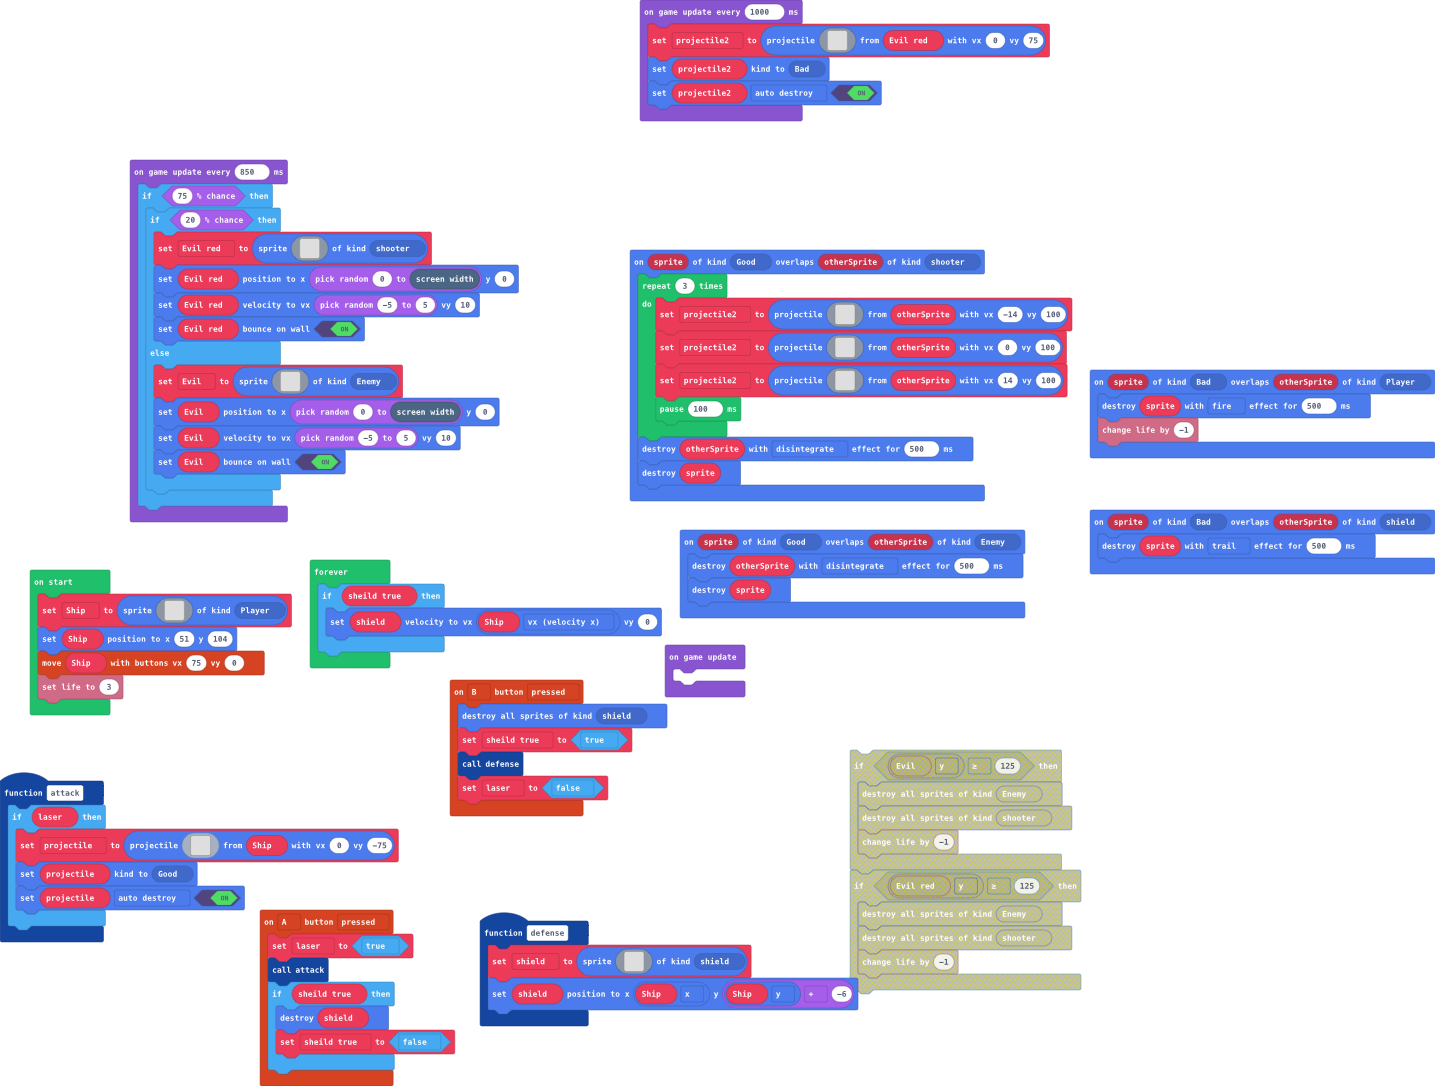
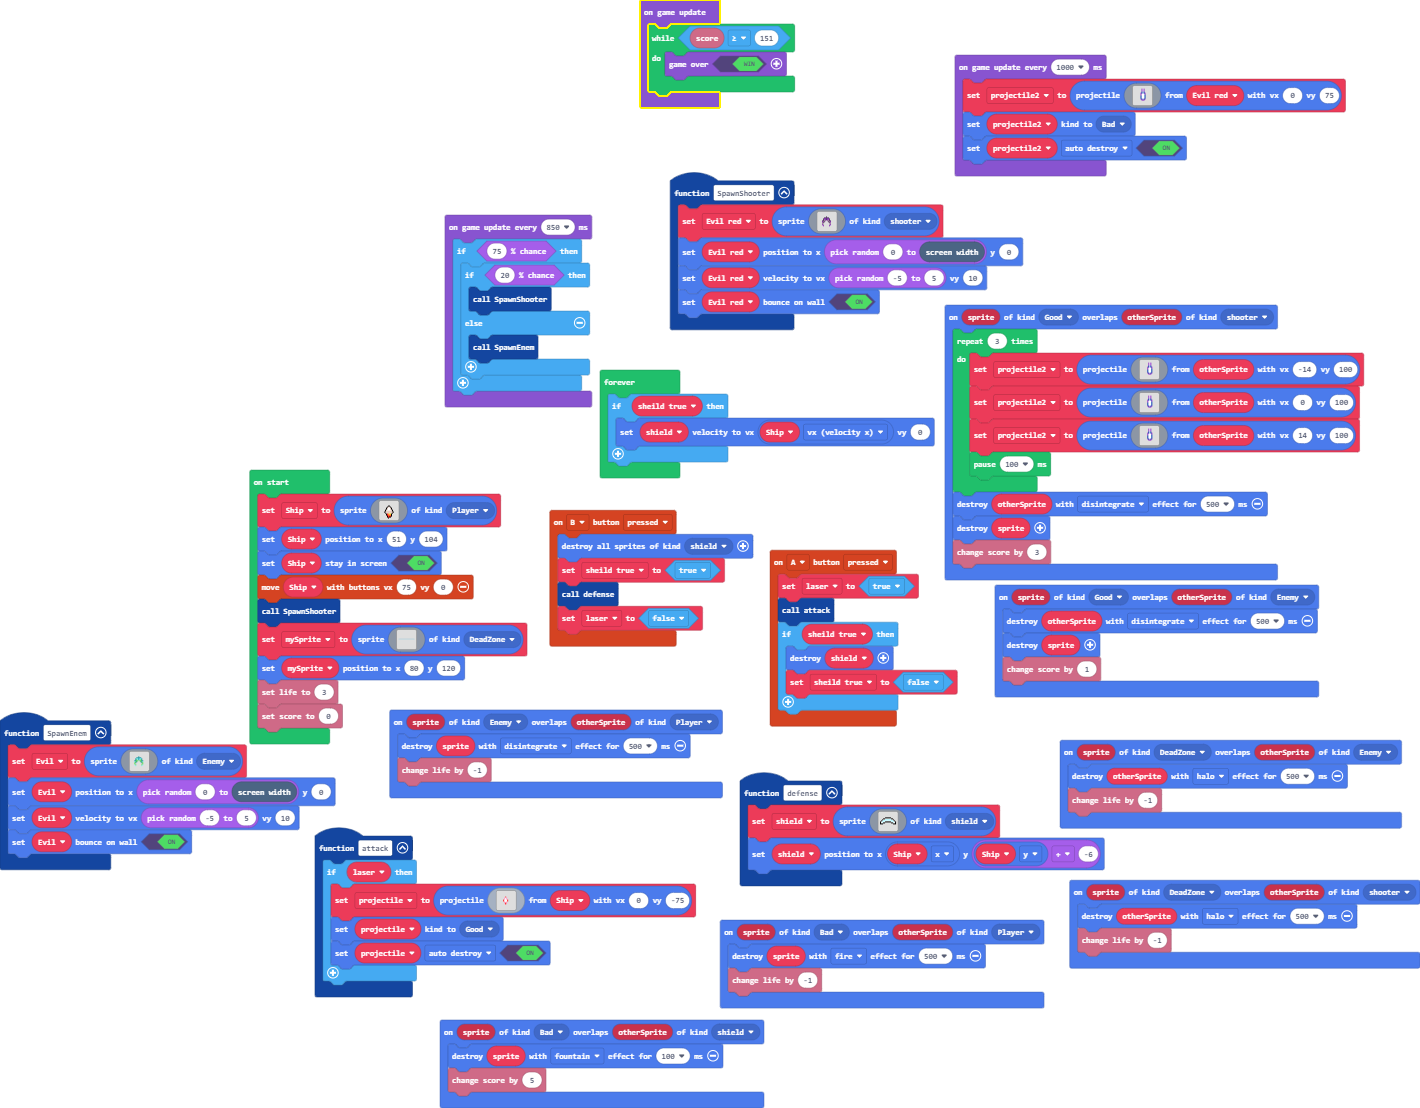
Update main.blocks, main.ts

diff --git a/main.ts b/main.ts
@@ -3,6 +3,7 @@ namespace SpriteKind {
     export const shooter = SpriteKind.create()
     export const Good = SpriteKind.create()
     export const Bad = SpriteKind.create()
+    export const DeadZone = SpriteKind.create()
 }
 sprites.onOverlap(SpriteKind.Good, SpriteKind.shooter, function (sprite, otherSprite) {
     for (let index = 0; index < 3; index++) {
@@ -64,12 +65,17 @@ sprites.onOverlap(SpriteKind.Good, SpriteKind.shooter, function (sprite, otherSp
     }
     otherSprite.destroy(effects.disintegrate, 500)
     sprite.destroy()
+    info.changeScoreBy(3)
 })
 controller.B.onEvent(ControllerButtonEvent.Pressed, function () {
     sprites.destroyAllSpritesOfKind(SpriteKind.shield)
     sheild_true = true
     defense()
     laser = false
+})
+sprites.onOverlap(SpriteKind.DeadZone, SpriteKind.Enemy, function (sprite, otherSprite) {
+    otherSprite.destroy(effects.halo, 500)
+    info.changeLifeBy(-1)
 })
 controller.A.onEvent(ControllerButtonEvent.Pressed, function () {
     laser = true
@@ -79,6 +85,33 @@ controller.A.onEvent(ControllerButtonEvent.Pressed, function () {
         sheild_true = false
     }
 })
+sprites.onOverlap(SpriteKind.DeadZone, SpriteKind.shooter, function (sprite, otherSprite) {
+    otherSprite.destroy(effects.halo, 500)
+    info.changeLifeBy(-1)
+})
+function SpawnEnem () {
+    Evil = sprites.create(img`
+        . . . . . . . . . . . . . . . . 
+        . . . . . . . . . . . . . . . . 
+        . . . . . . . . . . . . . . . . 
+        . . . . . . . 6 . . . . . . . . 
+        . . . . . 6 6 6 6 6 . . . . . . 
+        . . . . 6 9 9 6 9 9 6 . . . . . 
+        . . . . 6 7 9 6 9 7 6 . . . . . 
+        . . . 6 6 7 7 . 7 7 6 6 . . . . 
+        . . . 9 7 6 . . . 6 7 9 . . . . 
+        . . . 7 6 . . . . . 6 7 . . . . 
+        . . . 7 . . . . . . . 7 . . . . 
+        . . . 9 7 . . . . . 7 9 . . . . 
+        . . . . 9 . . . . . 9 . . . . . 
+        . . . . . . . . . . . . . . . . 
+        . . . . . . . . . . . . . . . . 
+        . . . . . . . . . . . . . . . . 
+        `, SpriteKind.Enemy)
+    Evil.setPosition(randint(0, scene.screenWidth()), 0)
+    Evil.setVelocity(randint(-5, 5), 10)
+    Evil.setBounceOnWall(true)
+}
 function attack () {
     if (laser) {
         projectile3 = sprites.createProjectileFromSprite(img`
@@ -86,14 +119,14 @@ function attack () {
             . . . . . . . . . . . . . . . . 
             . . . . . . . . . . . . . . . . 
             . . . . . . . . . . . . . . . . 
-            . . . . . . . f . . . . . . . . 
-            . . . . . . f 1 f . . . . . . . 
-            . . . . . f 1 2 1 f . . . . . . 
-            . . . . . f 1 2 1 f . . . . . . 
-            . . . . . f 1 2 1 f . . . . . . 
-            . . . . . . f 1 f . . . . . . . 
-            . . . . . . . f . . . . . . . . 
-            . . . . . . . . . . . . . . . . 
+            . . . . . . . 2 . . . . . . . . 
+            . . . . . . 3 1 3 . . . . . . . 
+            . . . . . . 3 1 3 . . . . . . . 
+            . . . . . 2 1 1 1 2 . . . . . . 
+            . . . . . 2 1 1 1 2 . . . . . . 
+            . . . . . . 3 1 3 . . . . . . . 
+            . . . . . . 3 2 3 . . . . . . . 
+            . . . . . . . 2 . . . . . . . . 
             . . . . . . . . . . . . . . . . 
             . . . . . . . . . . . . . . . . 
             . . . . . . . . . . . . . . . . 
@@ -107,8 +140,13 @@ sprites.onOverlap(SpriteKind.Bad, SpriteKind.Player, function (sprite, otherSpri
     sprite.destroy(effects.fire, 500)
     info.changeLifeBy(-1)
 })
+sprites.onOverlap(SpriteKind.Enemy, SpriteKind.Player, function (sprite, otherSprite) {
+    sprite.destroy(effects.disintegrate, 500)
+    info.changeLifeBy(-1)
+})
 sprites.onOverlap(SpriteKind.Bad, SpriteKind.shield, function (sprite, otherSprite) {
-    sprite.destroy(effects.trail, 500)
+    sprite.destroy(effects.fountain, 100)
+    info.changeScoreBy(5)
 })
 function defense () {
     shield = sprites.create(img`
@@ -131,13 +169,37 @@ function defense () {
         `, SpriteKind.shield)
     shield.setPosition(Ship.x, Ship.y + -6)
 }
+function SpawnShooter () {
+    Evil_red = sprites.create(img`
+        . . . . . . . . . . . . . . . . 
+        . . . . . . . . . . . . . . . . 
+        . . . . . . . . . . . . . . . . 
+        . . . . . . . c . . . . . . . . 
+        . . . . . c c c c c . . . . . . 
+        . . . . c a a c a a c . . . . . 
+        . . . . c b a c a b c . . . . . 
+        . . . c c b b . b b c c . . . . 
+        . . . a b c . . . c b a . . . . 
+        . . . b c . . . . . c b . . . . 
+        . . . b . . . . . . . b . . . . 
+        . . . a b . . . . . b a . . . . 
+        . . . . a . . . . . a . . . . . 
+        . . . . . . . . . . . . . . . . 
+        . . . . . . . . . . . . . . . . 
+        . . . . . . . . . . . . . . . . 
+        `, SpriteKind.shooter)
+    Evil_red.setPosition(randint(0, scene.screenWidth()), 0)
+    Evil_red.setVelocity(randint(-5, 5), 10)
+    Evil_red.setBounceOnWall(true)
+}
 sprites.onOverlap(SpriteKind.Good, SpriteKind.Enemy, function (sprite, otherSprite) {
     otherSprite.destroy(effects.disintegrate, 500)
     sprite.destroy()
+    info.changeScoreBy(1)
 })
-let Evil: Sprite = null
 let Evil_red: Sprite = null
 let projectile3: Sprite = null
+let Evil: Sprite = null
 let shield: Sprite = null
 let laser = false
 let sheild_true = false
@@ -162,10 +224,20 @@ Ship = sprites.create(img`
     . . . . . . . f . . . . . . . . 
     `, SpriteKind.Player)
 Ship.setPosition(51, 104)
+Ship.setStayInScreen(true)
 controller.moveSprite(Ship, 75, 0)
+SpawnShooter()
+let mySprite = sprites.create(img`
+    9999999999999999999999999999999999999999999999999999999999999999999999999999999999999999999999999999999999999999999999999999999999999999999999999999999999999999
+    8888888888888888888888888888888888888888888888888888888888888888888888888888888888888888888888888888888888888888888888888888888888888888888888888888888888888888
+    `, SpriteKind.DeadZone)
+mySprite.setPosition(80, 120)
 info.setLife(3)
+info.setScore(0)
 game.onUpdate(function () {
-	
+    while (info.score() >= 151) {
+        game.over(true)
+    }
 })
 game.onUpdateInterval(1000, function () {
     projectile22 = sprites.createProjectileFromSprite(img`
@@ -192,49 +264,9 @@ game.onUpdateInterval(1000, function () {
 game.onUpdateInterval(850, function () {
     if (Math.percentChance(75)) {
         if (Math.percentChance(20)) {
-            Evil_red = sprites.create(img`
-                . . . . . . . . . . . . . . . . 
-                . . . . . . . . . . . . . . . . 
-                . . . . . . . . . . . . . . . . 
-                . . . . . . . c . . . . . . . . 
-                . . . . . c c c c c . . . . . . 
-                . . . . c a a c a a c . . . . . 
-                . . . . c b a c a b c . . . . . 
-                . . . c c b b . b b c c . . . . 
-                . . . a b c . . . c b a . . . . 
-                . . . b c . . . . . c b . . . . 
-                . . . b . . . . . . . b . . . . 
-                . . . a b . . . . . b a . . . . 
-                . . . . a . . . . . a . . . . . 
-                . . . . . . . . . . . . . . . . 
-                . . . . . . . . . . . . . . . . 
-                . . . . . . . . . . . . . . . . 
-                `, SpriteKind.shooter)
-            Evil_red.setPosition(randint(0, scene.screenWidth()), 0)
-            Evil_red.setVelocity(randint(-5, 5), 10)
-            Evil_red.setBounceOnWall(true)
+            SpawnShooter()
         } else {
-            Evil = sprites.create(img`
-                . . . . . . . . . . . . . . . . 
-                . . . . . . . . . . . . . . . . 
-                . . . . . . . . . . . . . . . . 
-                . . . . . . . 6 . . . . . . . . 
-                . . . . . 6 6 6 6 6 . . . . . . 
-                . . . . 6 9 9 6 9 9 6 . . . . . 
-                . . . . 6 7 9 6 9 7 6 . . . . . 
-                . . . 6 6 7 7 . 7 7 6 6 . . . . 
-                . . . 9 7 6 . . . 6 7 9 . . . . 
-                . . . 7 6 . . . . . 6 7 . . . . 
-                . . . 7 . . . . . . . 7 . . . . 
-                . . . 9 7 . . . . . 7 9 . . . . 
-                . . . . 9 . . . . . 9 . . . . . 
-                . . . . . . . . . . . . . . . . 
-                . . . . . . . . . . . . . . . . 
-                . . . . . . . . . . . . . . . . 
-                `, SpriteKind.Enemy)
-            Evil.setPosition(randint(0, scene.screenWidth()), 0)
-            Evil.setVelocity(randint(-5, 5), 10)
-            Evil.setBounceOnWall(true)
+            SpawnEnem()
         }
     }
 })
